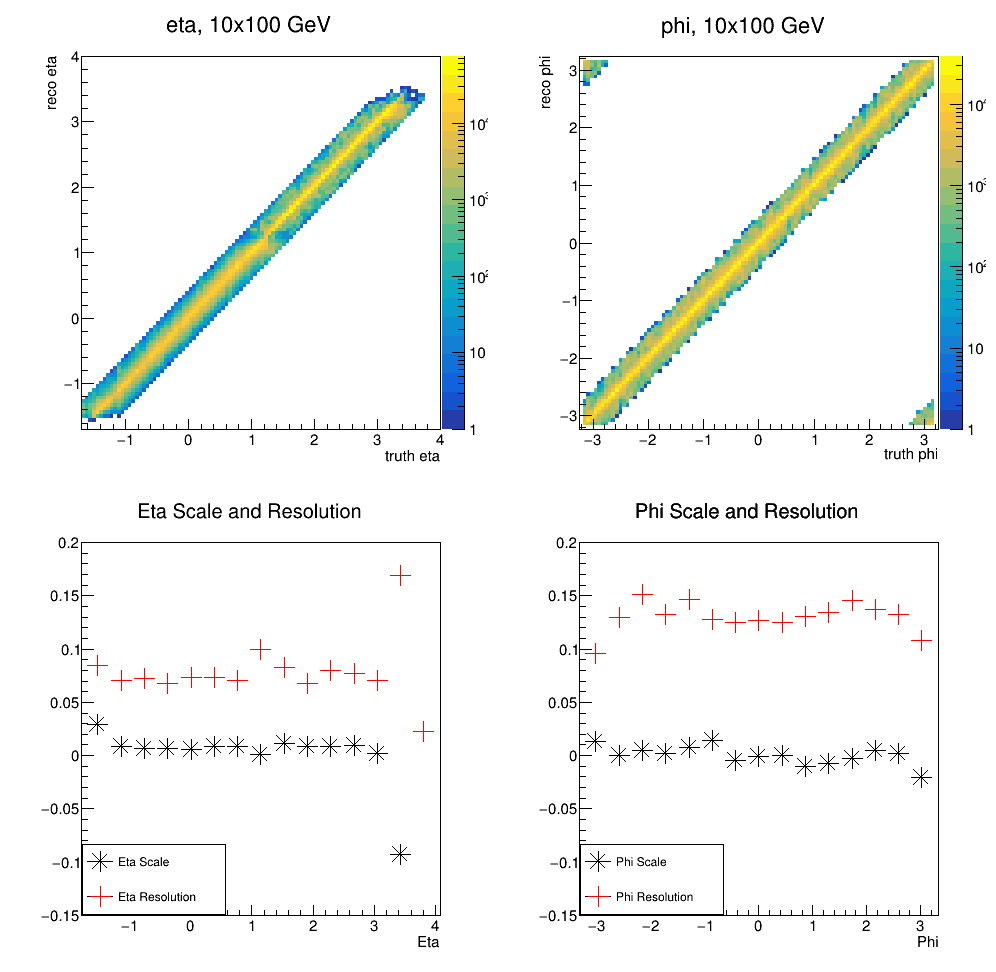
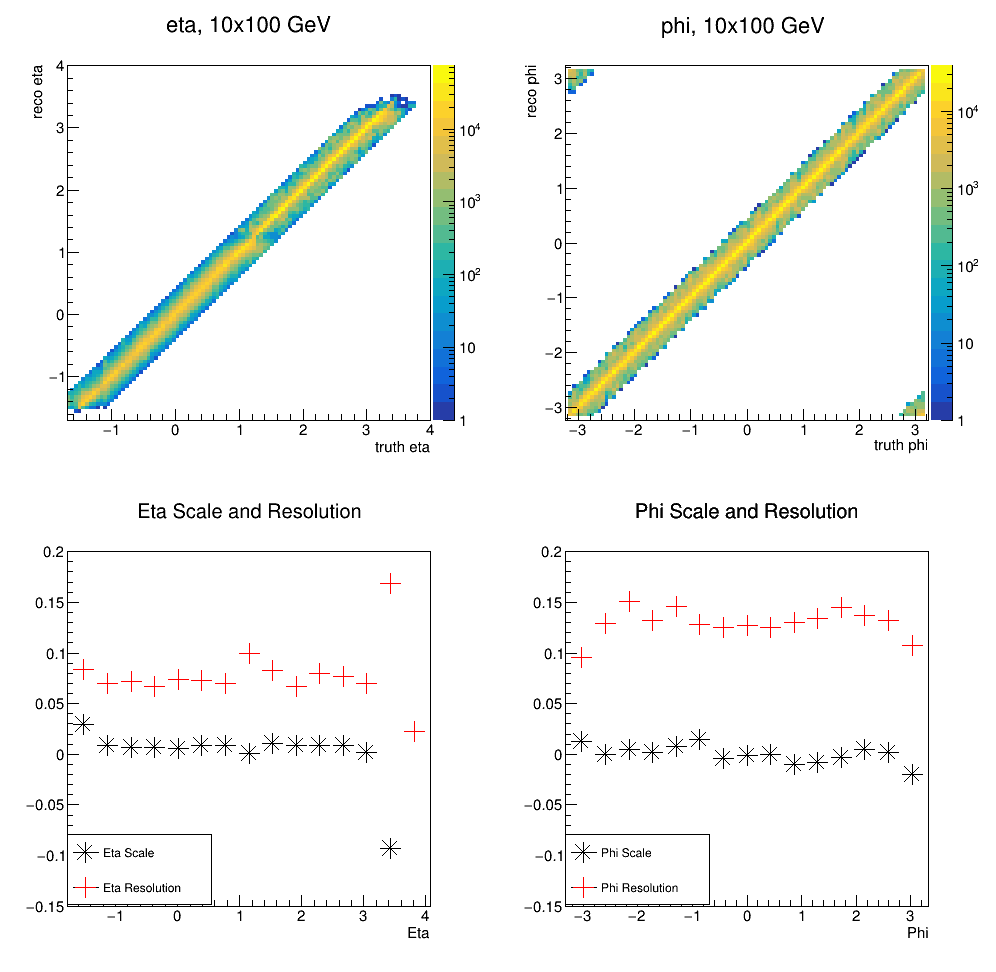
fix plot margins v2

diff --git a/macro/plotJetAngularResolution.cpp b/macro/plotJetAngularResolution.cpp
@@ -156,7 +156,10 @@ void plotJetAngularResolution(std::string inFilePath = "smallfilelist.txt") {
     // Drawing
     gStyle->SetStatX(0.9);
     gStyle->SetStatY(0.42);
-    gStyle->SetPadLeftMargin(0.15);
+    gStyle->SetPadRightMargin(0.12);
+    gStyle->SetPadLeftMargin(0.12);
+    gStyle->SetPadTopMargin(0.12);
+    gStyle->SetPadBottomMargin(0.12);
     TCanvas *jetEnergy = new TCanvas("jet_energy", "", 1000, 1000);
     jetEnergy->Divide(2, 2);
     jetEnergy->cd(1);

diff --git a/macro/plotJetEnergyScale.cpp b/macro/plotJetEnergyScale.cpp
@@ -180,7 +180,6 @@ void plotJetEnergyScale(std::string centralJets = "", std::string forwardJets = 
     
 
     jetEnergy->cd(3);
-    gPad->SetLeftMargin(0.15);
     TGraph *jetScale = new TGraph(fullBins, energy, scale);
     jetScale->GetXaxis()->SetTitle("Energy");
     jetScale->GetYaxis()->SetTitle("Scale (Mean((reco-truth)/truth))");
